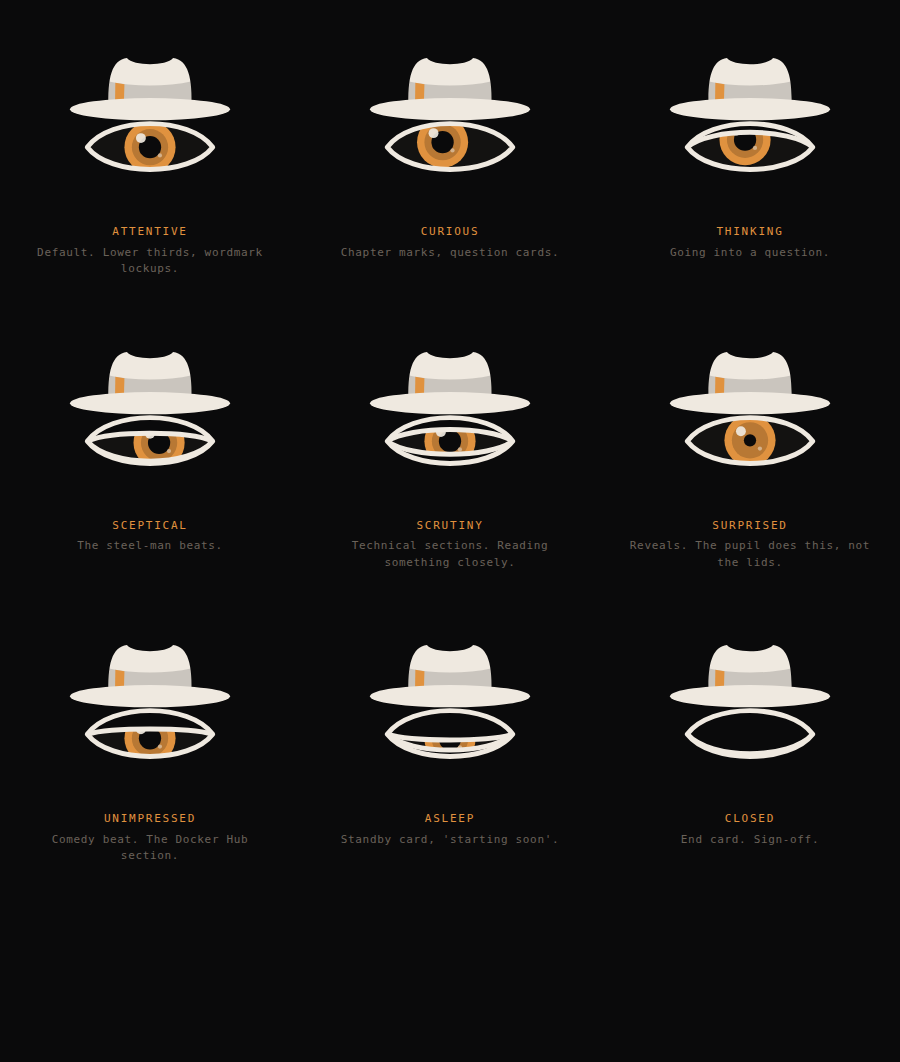
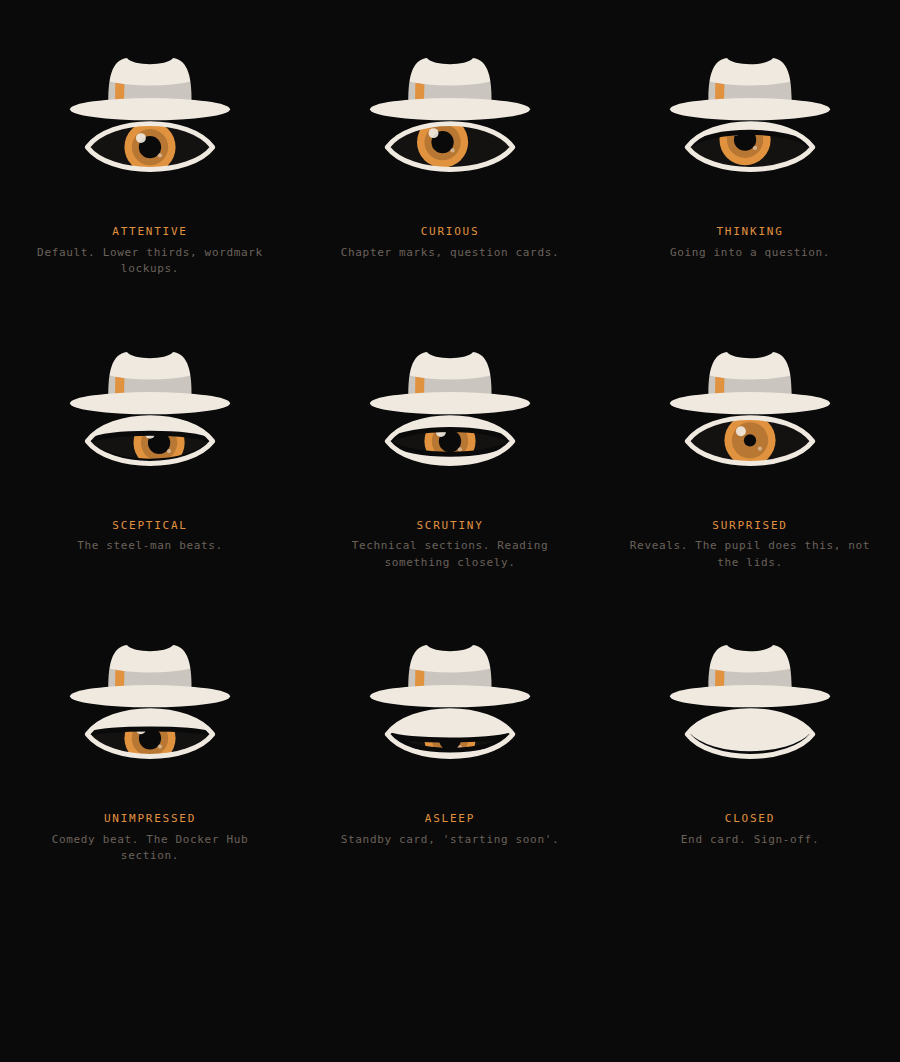
fix(brand): pin the lid to the light end of the palette, so noir has a lid at all
In noir the lid was filled with `paper`, which sits three points from the
`paper_2` sclera. The fill did no work, so the eye read as a hole with a line
drawn across it rather than as a lid coming down. Filling with `ink` in both
themes is not the answer either — the light theme then gets a heavy black bar
that competes with an already black hat.

The rule that does hold: a lid is a lit surface, so its meaning is its
lightness rather than its role. It takes the light end of whichever palette is
running and its margin takes the dark end — bone over near-black in noir,
cream over black on newsprint. That is the same reasoning already written
beside .pupil in styles.css, where two fills are pinned rather than swapped
for exactly this reason. This is the third.

Arrived at by rendering four candidates side by side in both themes rather
than by argument, because the two themes disagreed and reading one at a time
talks you into whichever you looked at last.

Newsprint is pixel-identical to before: its lid was already the light end, so
naming the rule changed nothing there. All eight banners likewise unchanged.

diff --git a/tools/eye.py b/tools/eye.py
@@ -152,7 +152,12 @@ def mark_css(t):
 .pupil {{ transform-box: fill-box; transform-origin: center;
           transform: scale(var(--pupil-s, 1)); }}
 /* A lid is two things: a fill that hides the iris, and the line that *is* the
-   eyelid. Only the fill used to exist, so the edge read purely as the boundary
+   eyelid. Both are pinned rather than swapped, like the pupil and the glint:
+   the lid is a lit surface, so it takes the light end of whichever palette is
+   running and its margin takes the dark end. Filled with `paper` instead it
+   vanished in noir, where paper and paper_2 are three points apart, and the
+   eye read as a hole with a line across it. Filled with `ink` in both, the
+   light theme got a heavy black bar competing with the hat. Only the fill used to exist, so the edge read purely as the boundary
    between two fills — visible in noir where paper is near-black against the
    sclera, invisible on newsprint where the two are a shade apart. The mark is
    drawn in line; its lid should be too.
@@ -161,8 +166,8 @@ def mark_css(t):
    running the full width of the shape it belongs to. Same weight and same
    non-scaling-stroke as eye-outline, or a closing eye changes line weight
    halfway down. */
-.lid-fill {{ fill: {t['paper']}; }}
-.lid-edge {{ fill: none; stroke: {t['ink']}; stroke-linecap: round;
+.lid-fill {{ fill: {t['lid']}; }}
+.lid-edge {{ fill: none; stroke: {t['lid_edge']}; stroke-linecap: round;
              stroke-width: calc(var(--mark-w) * .025); }}
 /* At rest a lid edge lies exactly on eye-outline, and two coincident
    antialiased strokes composite heavier than one — 170 pixels' worth on a

diff --git a/tools/banner.py b/tools/banner.py
@@ -73,13 +73,15 @@ THEMES = {
         ink_3="#6a625a", rule="#efe9e0", hair="#2b2722", signal="#e0923f",
         wash="rgba(224,146,63,.09)", glow="rgba(224,146,63,.34)",
         # Pinned, not swapped — see the note beside .pupil in styles.css.
-        pupil="#0a0a0b", glint="#efe9e0",
+        # The lid joins them: it is a lit surface, so it takes the light end of
+        # the palette in both themes and its margin takes the dark end.
+        pupil="#0a0a0b", glint="#efe9e0", lid="#efe9e0", lid_edge="#0a0a0b",
     ),
     "newsprint": dict(
         paper="#f7f3ea", paper_2="#efe9dc", ink="#1a1712", ink_2="#4a4238",
         ink_3="#7d7365", rule="#1a1712", hair="#cfc4b0", signal="#a8431d",
         wash="rgba(168,67,29,.07)", glow="transparent",
-        pupil="#1a1712", glint="#f7f3ea",
+        pupil="#1a1712", glint="#f7f3ea", lid="#f7f3ea", lid_edge="#1a1712",
     ),
 }
 
